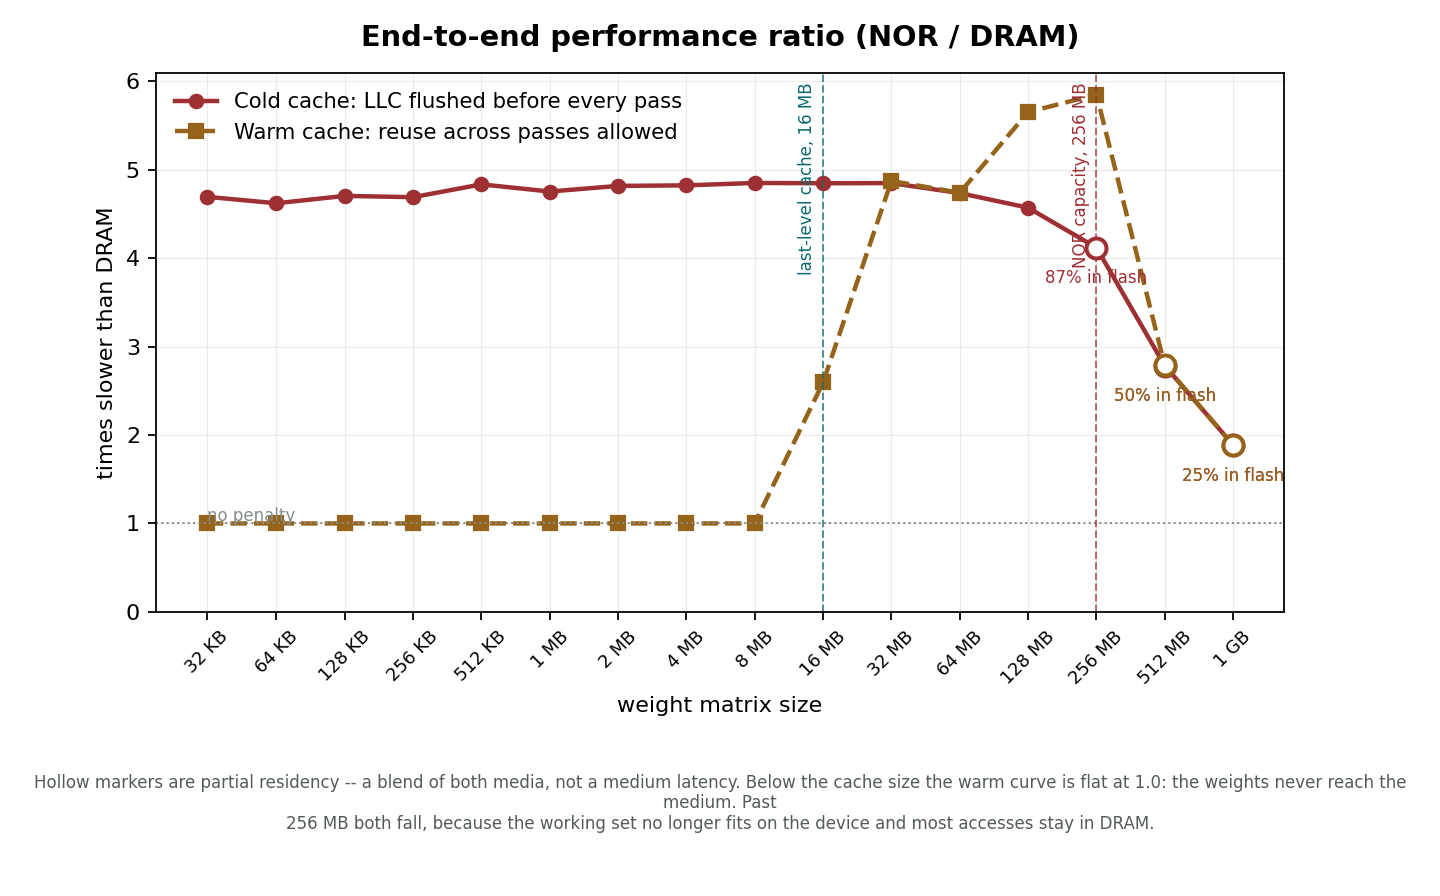
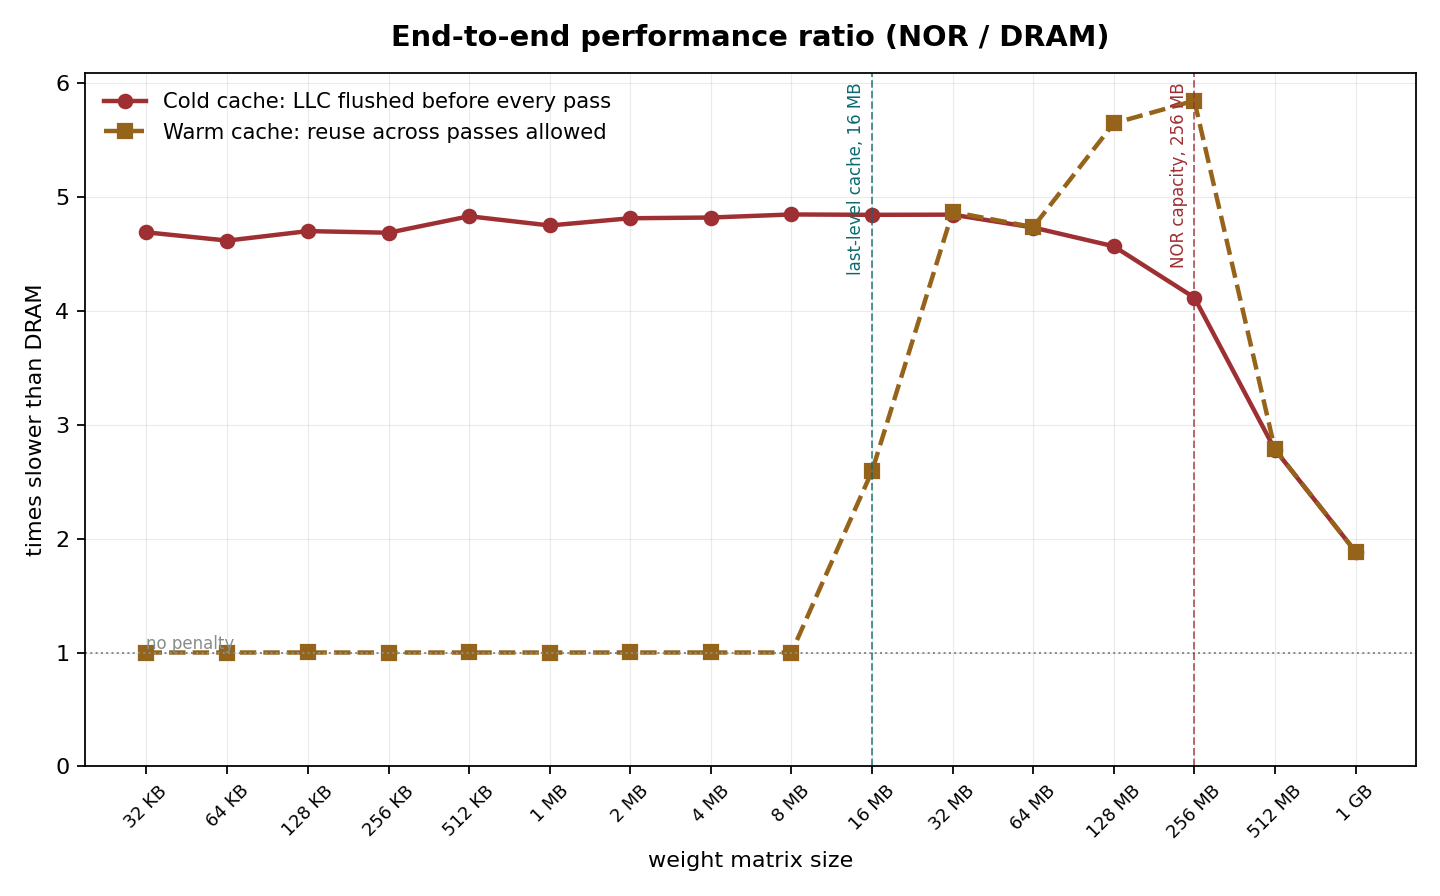
fig2: two curves, two legend entries, no caption
Drops the hollow partial-residency markers, the per-point "% in flash"
labels, and the explanatory note under the axes.

diff --git a/scripts/plot_sweep.py b/scripts/plot_sweep.py
@@ -105,30 +105,12 @@ for cm, dm, lab, c, ls in [("nor_cold", "dram_cold",
                            ("nor_warm", "dram_warm",
                             "Warm cache: reuse across passes allowed", "#96631A", "s--")]:
     n, r = col(cm), col(dm)
-    ratio = [x / y if y else float("nan") for x, y in zip(n, r)]
-    ax.plot(sizes, ratio, ls, color=c, lw=2, label=lab)
-    # A point where the weights did not all fit in flash is a BLEND of the two
-    # media, not a property of either, and it reads on the page as "NOR got
-    # faster". Draw those hollow and label what fraction actually reached
-    # flash, so the fall-off cannot be mistaken for a speed-up.
-    for x, y in zip(sizes, ratio):
-        e = d[x].get(cm)
-        if not e or not e[1]:
-            continue
-        pct = 100.0 * e[2] / e[1]
-        if pct >= 99.0 or not math.isfinite(y):
-            continue
-        ax.plot([x], [y], "o", mfc="white", mec=c, mew=1.8, ms=9, zorder=5)
-        ax.annotate(f"{pct:.0f}% in flash", (x, y), textcoords="offset points",
-                    xytext=(0, -16), ha="center", fontsize=7.5, color=c)
+    ax.plot(sizes, [x / y if y else float("nan") for x, y in zip(n, r)],
+            ls, color=c, lw=2, label=lab)
 ax.axhline(1.0, color="#868E8A", lw=0.9, ls=":")
 ax.text(sizes[0], 1.03, "no penalty", fontsize=7.5, color="#868E8A")
 ax.set_ylim(bottom=0)
-frame(ax, "End-to-end performance ratio (NOR / DRAM)", "times slower than DRAM",
-      "Hollow markers are partial residency -- a blend of both media, not a medium latency. "
-      "Below the cache size the warm curve is flat at 1.0: the weights never reach the medium. "
-      "Past\n256 MB both fall, because the working set no longer fits on the device and most "
-      "accesses stay in DRAM.")
+frame(ax, "End-to-end performance ratio (NOR / DRAM)", "times slower than DRAM")
 ax.legend(fontsize=9.5, loc="upper left", frameon=False)
 fig.tight_layout(); fig.savefig(f"{a.dir}/fig2-slowdown.png", dpi=160)
 
